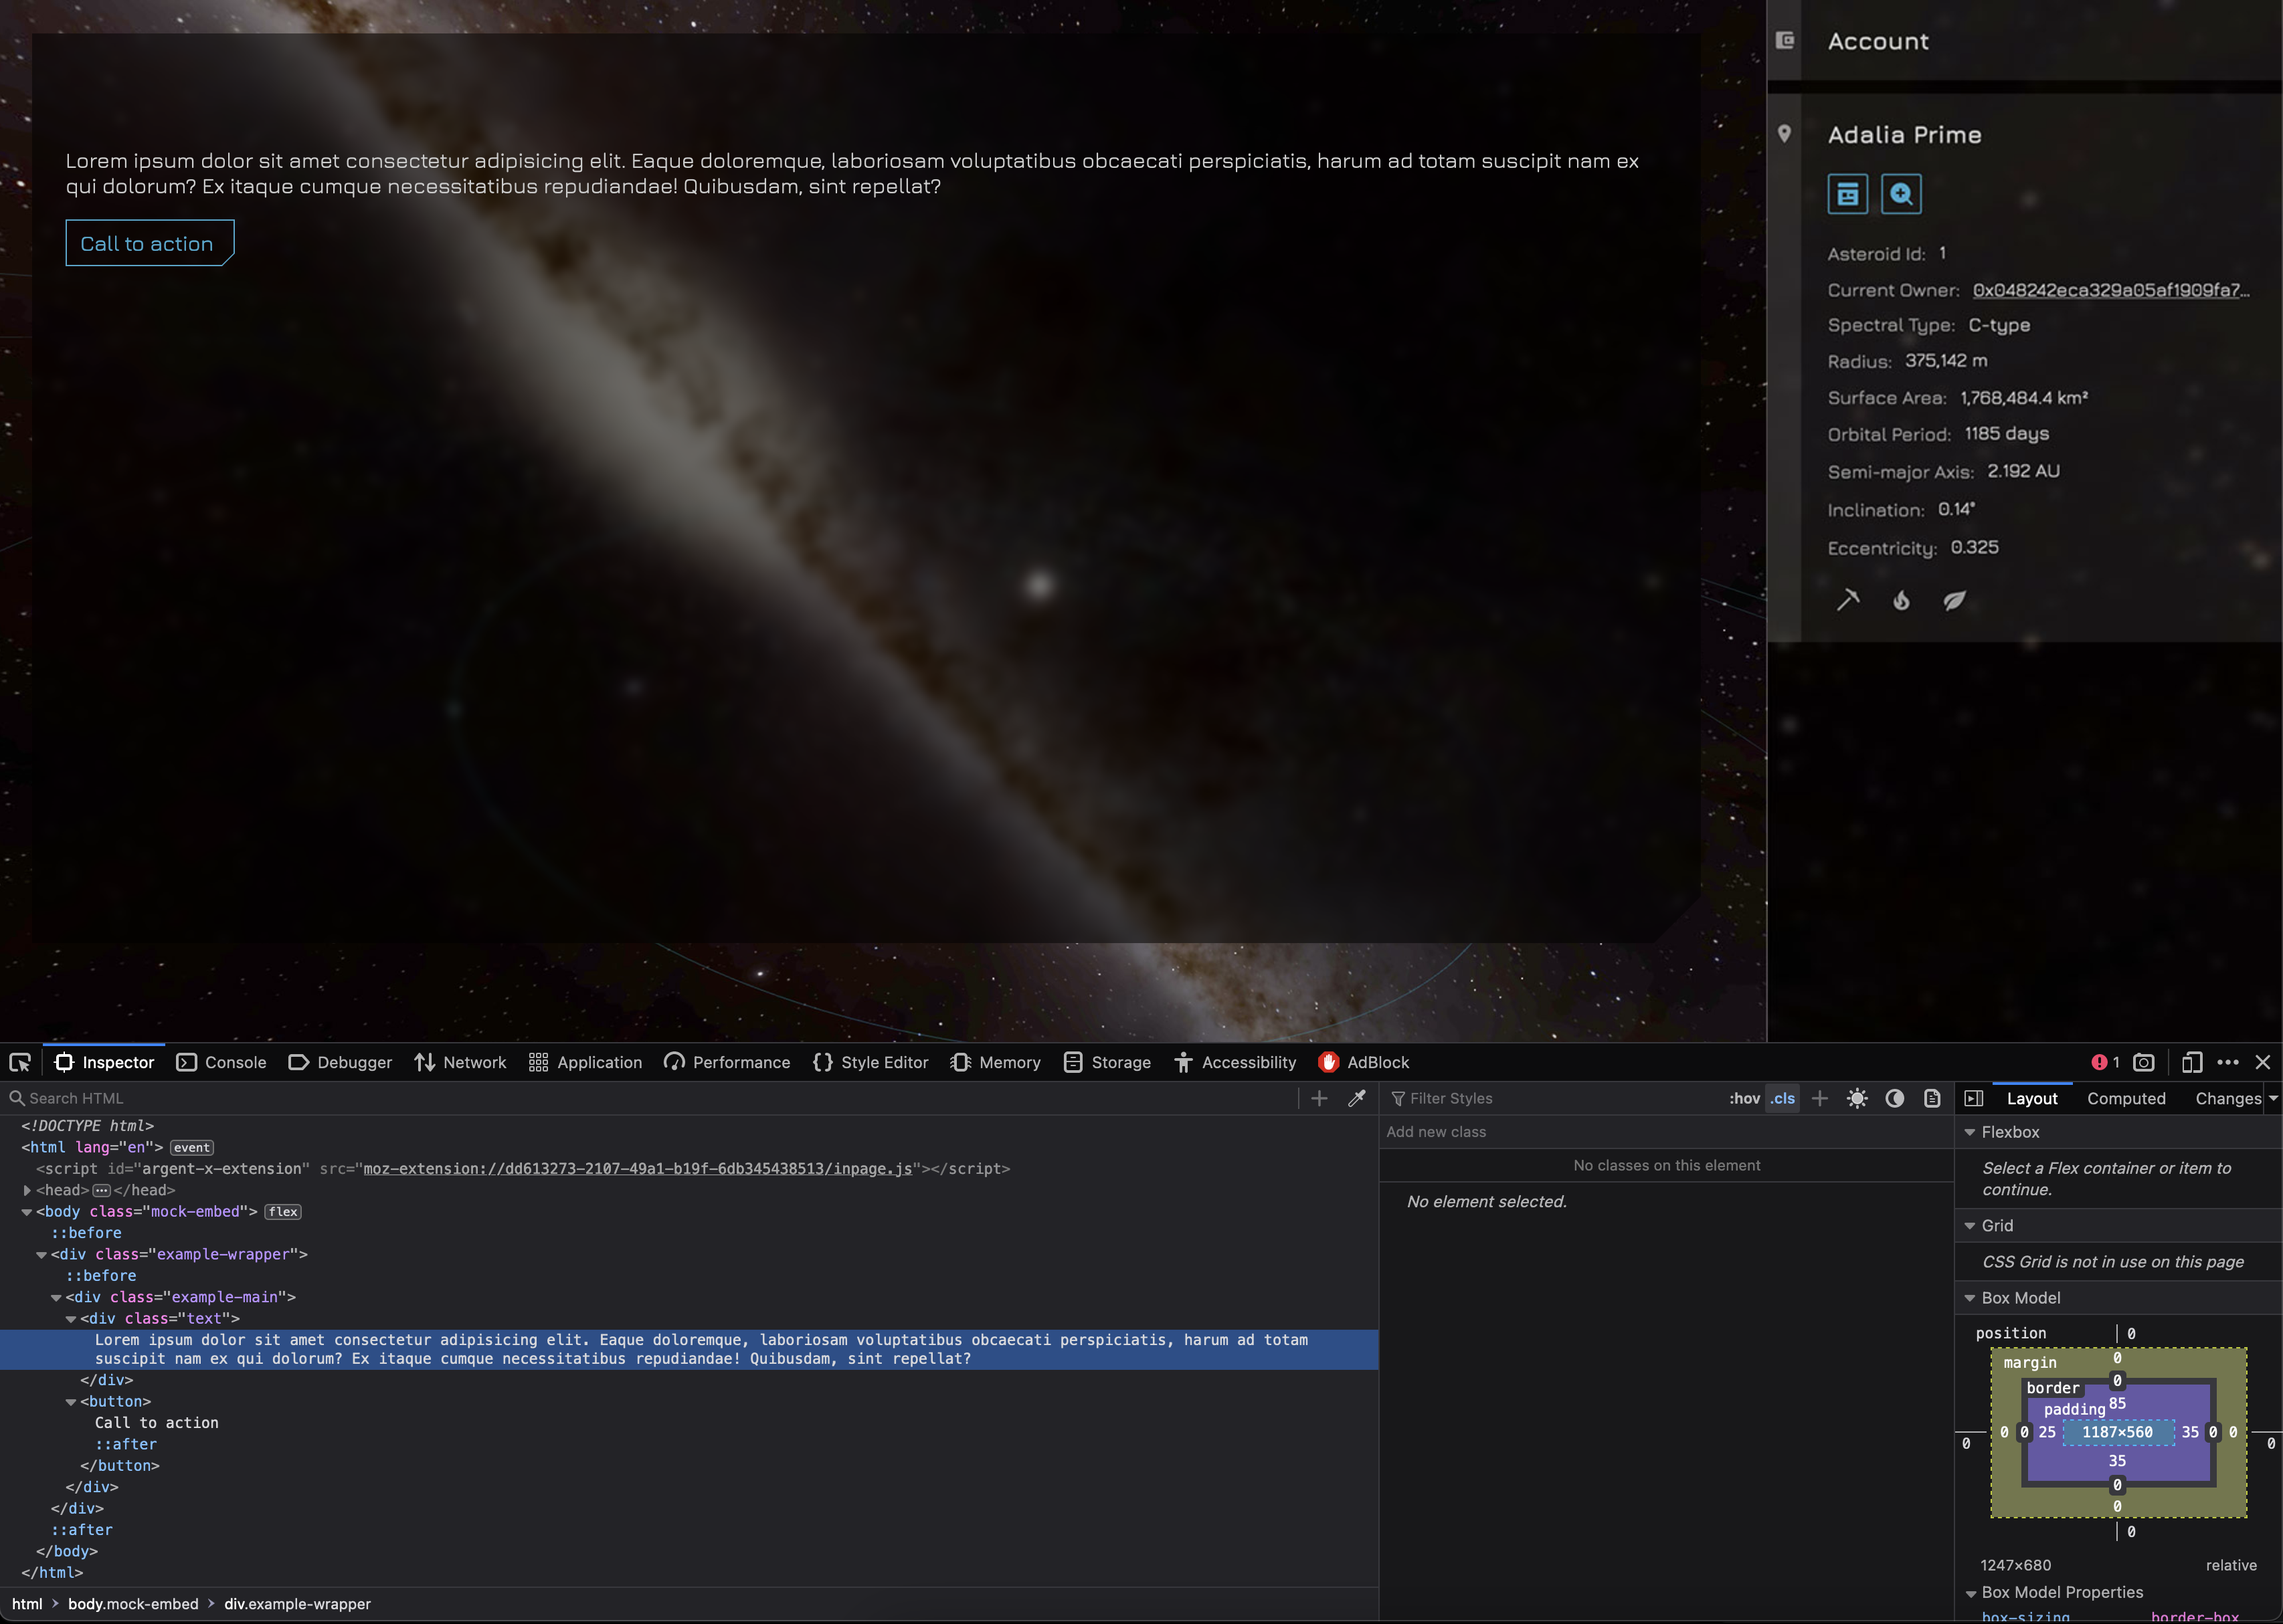
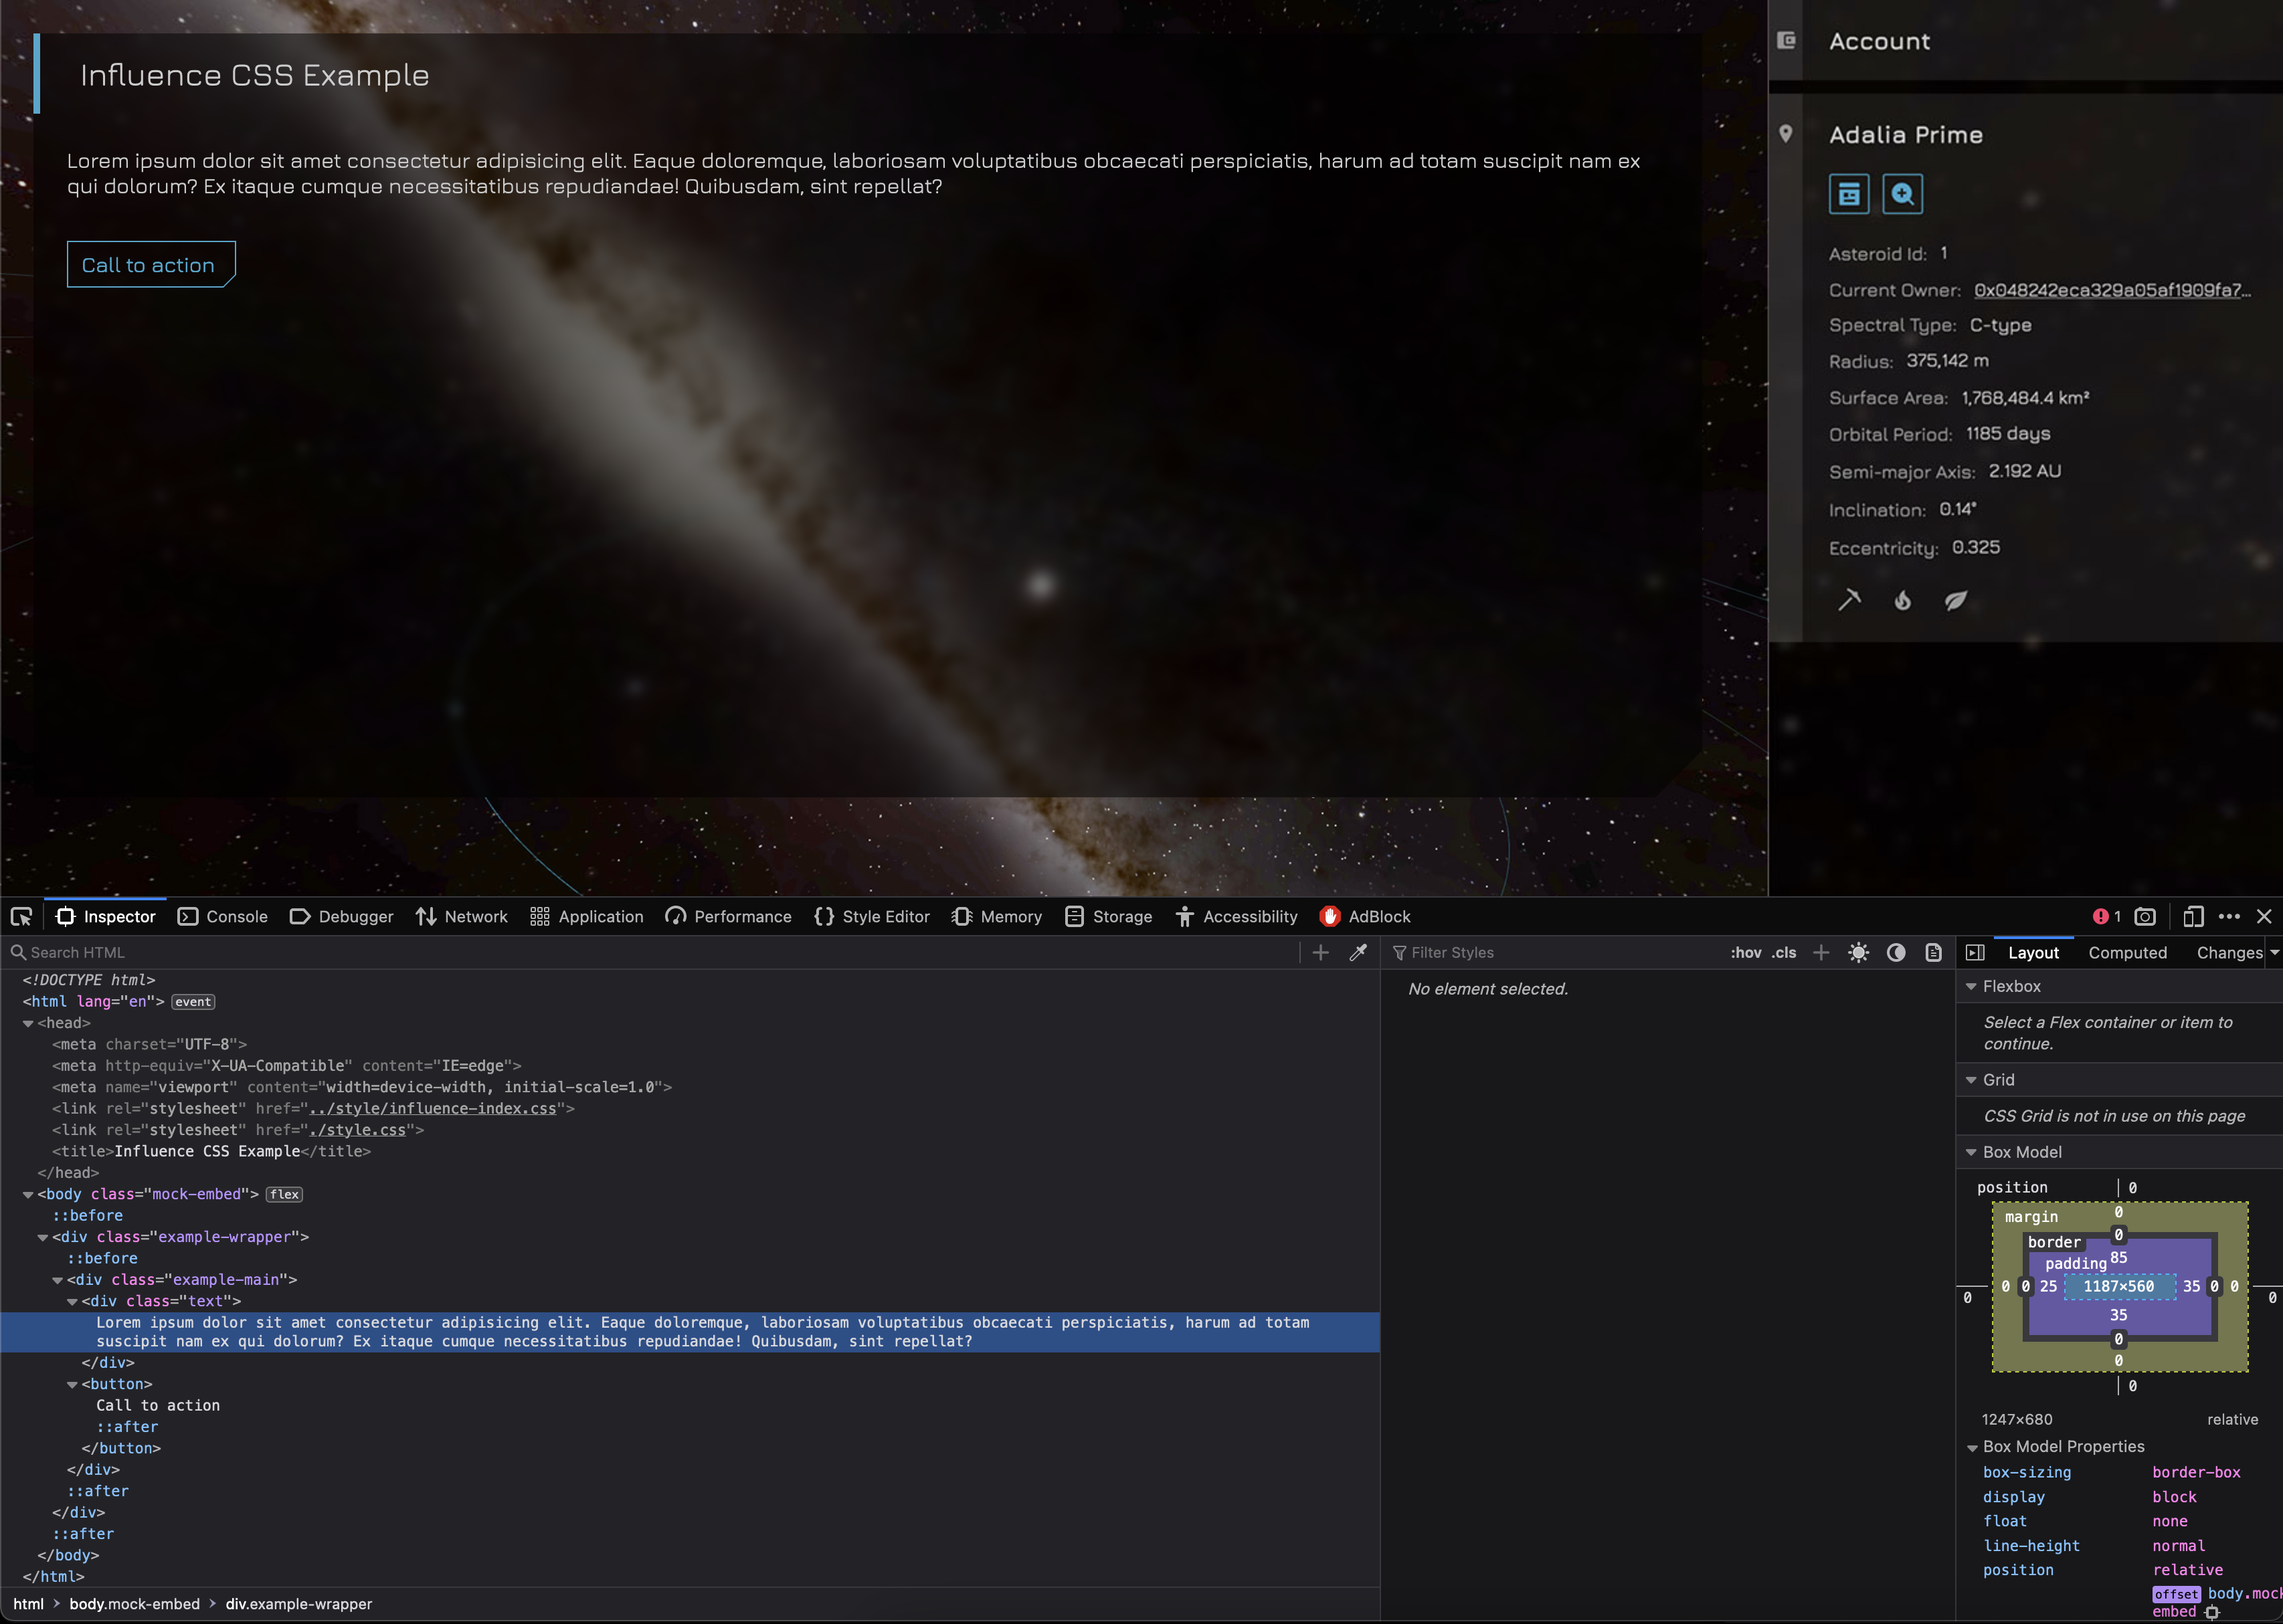
Add example title for in-game window

diff --git a/example/style.css b/example/style.css
@@ -50,6 +50,18 @@ body.mock-embed .example-wrapper::before {
     top: 0;
 }
 
+body.mock-embed .example-wrapper::after {
+    border-left: 5px solid var(--highlight);
+    content: "Influence CSS Example";
+    font-size: 24px;
+    height: 60px;
+    left: 0;
+    line-height: 60px;
+    padding-left: 30px;
+    position: absolute;
+    top: 0;
+}
+
 body.mock-embed .example-main {
     height: 100%;
     overflow: auto;
@@ -72,5 +84,5 @@ body {
 
 button {
     font-size: 1rem;
-    margin-top: 1rem;
+    margin-top: 2rem;
 }
